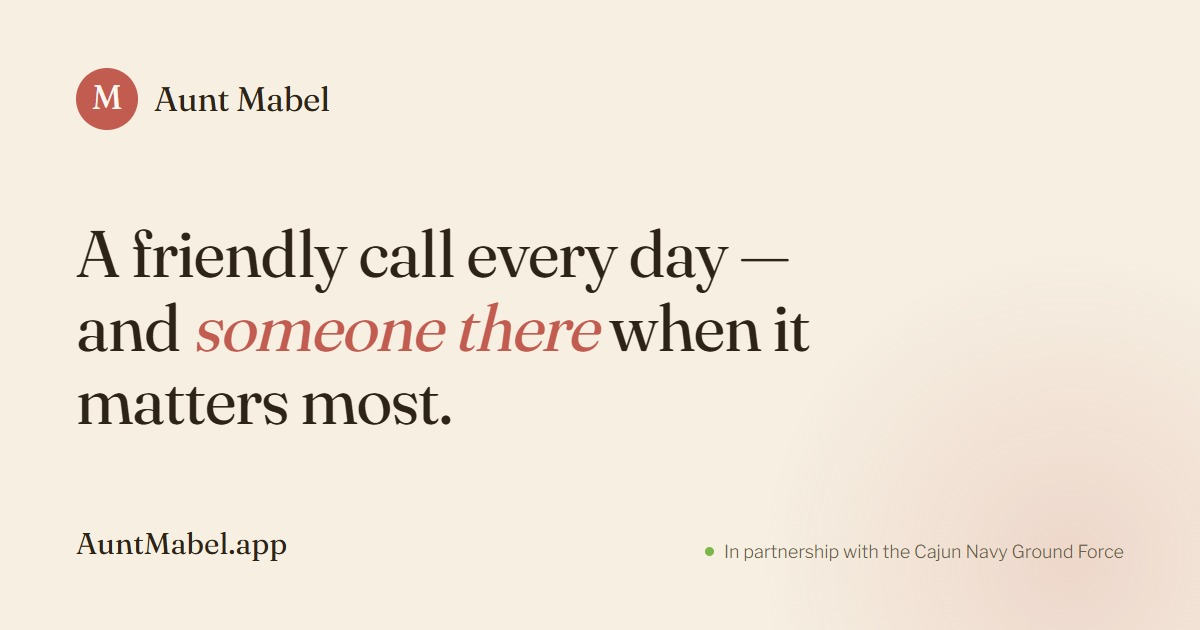
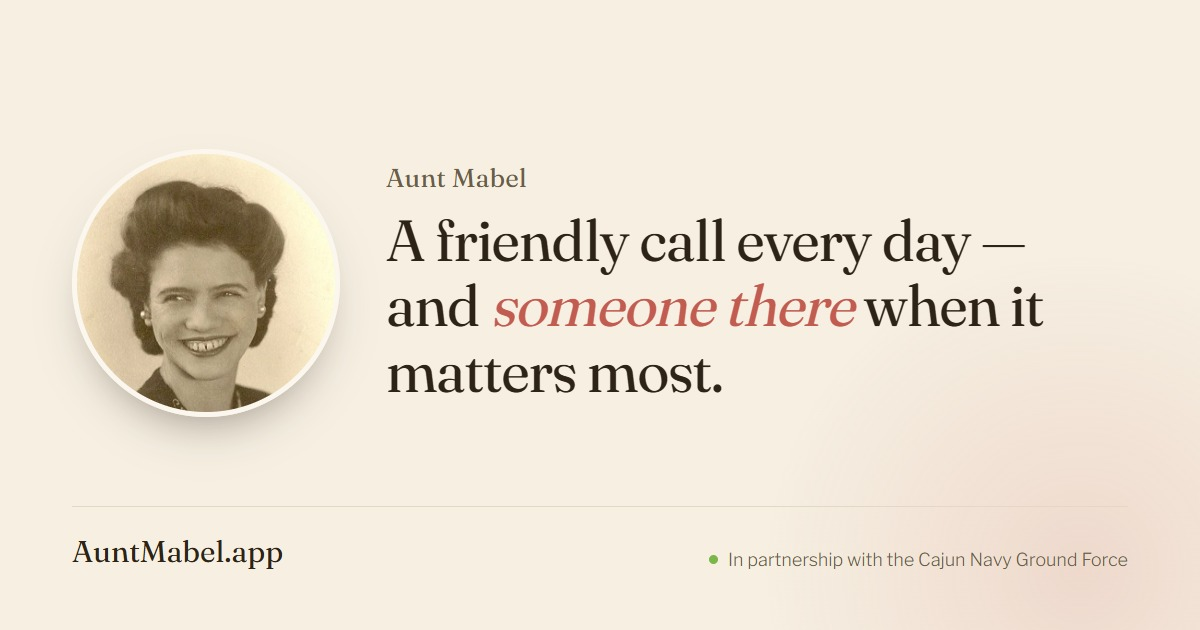
Mobile hamburger nav; og-image rebuilt with Aunt Mabel's portrait
MOBILE NAV — below 760px the header hid every link, leaving a returning visitor
on a phone with no route to Sign in at all: the CTA was the only control left
and it points at signup. Now a hamburger opens a cream panel with all four
links, Fraunces, 16px vertical padding on each so the targets are comfortable
for an audience largely in its 50s and 60s reading on a phone.

The button is a real <button> with aria-expanded, aria-controls and an
aria-label that flips between "Open menu" and "Close menu"; it becomes an X
while open, so the same control closes it. Escape closes and returns focus.
Tapping a link closes the panel, otherwise the page scrolls behind something
still covering it. A resize past the desktop breakpoint closes it too — left
open, the panel would strand itself with no visible control.

Verified at 390px: burger visible, panel opens with How it works / Family
Connect / Our story / Sign in, aria-expanded flips, Escape closes it. Desktop is
untouched. The CTA shortens to "Start calls" where the row gets tight.

OG-IMAGE — the "M" is replaced with her real sepia portrait beside the headline.
In a feed this card competes with photographs of people; a real face, mid-smile,
is what earns the half-second. The "M" stays as the favicon, where a face at
32px would be unreadable.

Added aunt-mabel-face.jpg, a square crop around her face. The full portrait
carries wide studio margins, so in a circular mark she came out small and
[…]

diff --git a/scripts/og-image.html b/scripts/og-image.html
@@ -8,11 +8,16 @@
 
       Kept as HTML rather than a binary-only asset so the wording and the brand
       can be corrected later without redrawing anything by hand.
+
+      The mark is Aunt Mabel's real sepia portrait, not the "M" letter. In a
+      feed this card competes with photographs of people, and a face — a real
+      one, warm, mid-smile — is what earns the half-second of attention. The "M"
+      stays where a face at 32px would be unreadable: the favicon.
     -->
     <link rel="preconnect" href="https://fonts.googleapis.com" />
     <link rel="preconnect" href="https://fonts.gstatic.com" crossorigin />
     <link
-      href="https://fonts.googleapis.com/css2?family=Fraunces:opsz,wght@9..144,400;9..144,500&family=Libre+Franklin:wght@300;400;500&display=swap"
+      href="https://fonts.googleapis.com/css2?family=Fraunces:opsz,wght@9..144,400;9..144,500;9..144,600&family=Libre+Franklin:wght@300;400;500&display=swap"
       rel="stylesheet"
     />
     <style>
@@ -26,55 +31,58 @@
         display: flex;
         flex-direction: column;
         justify-content: space-between;
-        padding: 68px 76px;
+        padding: 60px 72px;
         position: relative;
         overflow: hidden;
         -webkit-font-smoothing: antialiased;
       }
 
       /* A soft rose bloom, bottom-right — warmth without competing with the
-         headline. Same clay the site uses for every accent. */
+         headline or the portrait. */
       .bloom {
         position: absolute;
-        right: -180px;
-        bottom: -240px;
-        width: 620px;
-        height: 620px;
+        right: -200px;
+        bottom: -260px;
+        width: 640px;
+        height: 640px;
         border-radius: 50%;
-        background: radial-gradient(circle, rgba(194,91,80,0.16) 0%, rgba(194,91,80,0) 70%);
+        background: radial-gradient(circle, rgba(194, 91, 80, 0.15) 0%, rgba(194, 91, 80, 0) 70%);
       }
 
-      .top { display: flex; align-items: center; gap: 16px; position: relative; }
-      .mark {
-        width: 62px;
-        height: 62px;
-        border-radius: 50%;
-        background: #c25b50;
-        color: #fbf7ee;
+      .top {
+        position: relative;
         display: flex;
         align-items: center;
-        justify-content: center;
-        font-family: 'Fraunces', Georgia, serif;
-        font-size: 34px;
-        line-height: 1;
-        padding-bottom: 4px;
+        gap: 46px;
+        flex: 1;
       }
-      .wordmark {
-        font-family: 'Fraunces', Georgia, serif;
-        font-size: 34px;
-        letter-spacing: -0.01em;
+
+      .portrait {
+        width: 268px;
+        height: 268px;
+        border-radius: 50%;
+        object-fit: cover;
+        border: 5px solid #fbf7ee;
+        box-shadow: 0 24px 48px -22px rgba(45, 36, 23, 0.5);
+        flex: none;
       }
 
       .headline {
-        position: relative;
         font-family: 'Fraunces', Georgia, serif;
         font-weight: 400;
-        font-size: 66px;
-        line-height: 1.12;
+        font-size: 58px;
+        line-height: 1.13;
         letter-spacing: -0.02em;
-        max-width: 20ch;
       }
       .headline em { font-style: italic; color: #c25b50; }
+
+      .wordmark {
+        font-family: 'Fraunces', Georgia, serif;
+        font-size: 26px;
+        color: #6b5d48;
+        margin-bottom: 14px;
+        letter-spacing: 0.01em;
+      }
 
       .bottom {
         position: relative;
@@ -82,6 +90,8 @@
         align-items: flex-end;
         justify-content: space-between;
         gap: 30px;
+        padding-top: 26px;
+        border-top: 1px solid #e3d8c3;
       }
       .url {
         font-family: 'Fraunces', Georgia, serif;
@@ -110,13 +120,14 @@
     <div class="bloom"></div>
 
     <div class="top">
-      <div class="mark">M</div>
-      <div class="wordmark">Aunt Mabel</div>
+      <img class="portrait" src="../public/images/family/aunt-mabel-face.jpg" alt="" />
+      <div>
+        <div class="wordmark">Aunt Mabel</div>
+        <h1 class="headline">
+          A friendly call every day — and <em>someone there</em> when it matters most.
+        </h1>
+      </div>
     </div>
-
-    <h1 class="headline">
-      A friendly call every day — and <em>someone there</em> when it matters most.
-    </h1>
 
     <div class="bottom">
       <div class="url">AuntMabel.app</div>

diff --git a/src/styles/dashboard.css b/src/styles/dashboard.css
@@ -56,7 +56,6 @@
   height: 30px;
   border-radius: 50%;
   object-fit: cover;
-  object-position: center 18%;
   border: 1px solid var(--line);
   background: var(--paper);
   flex: none;
